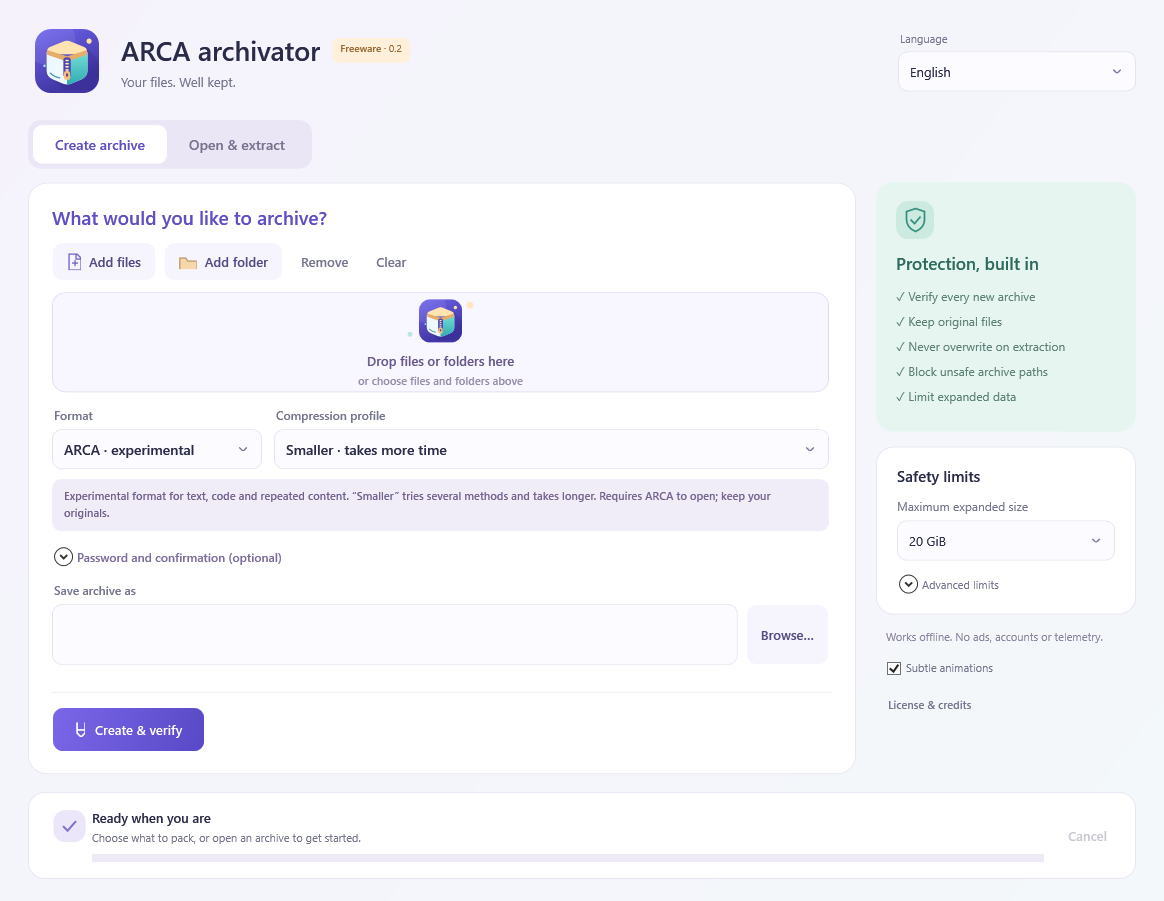
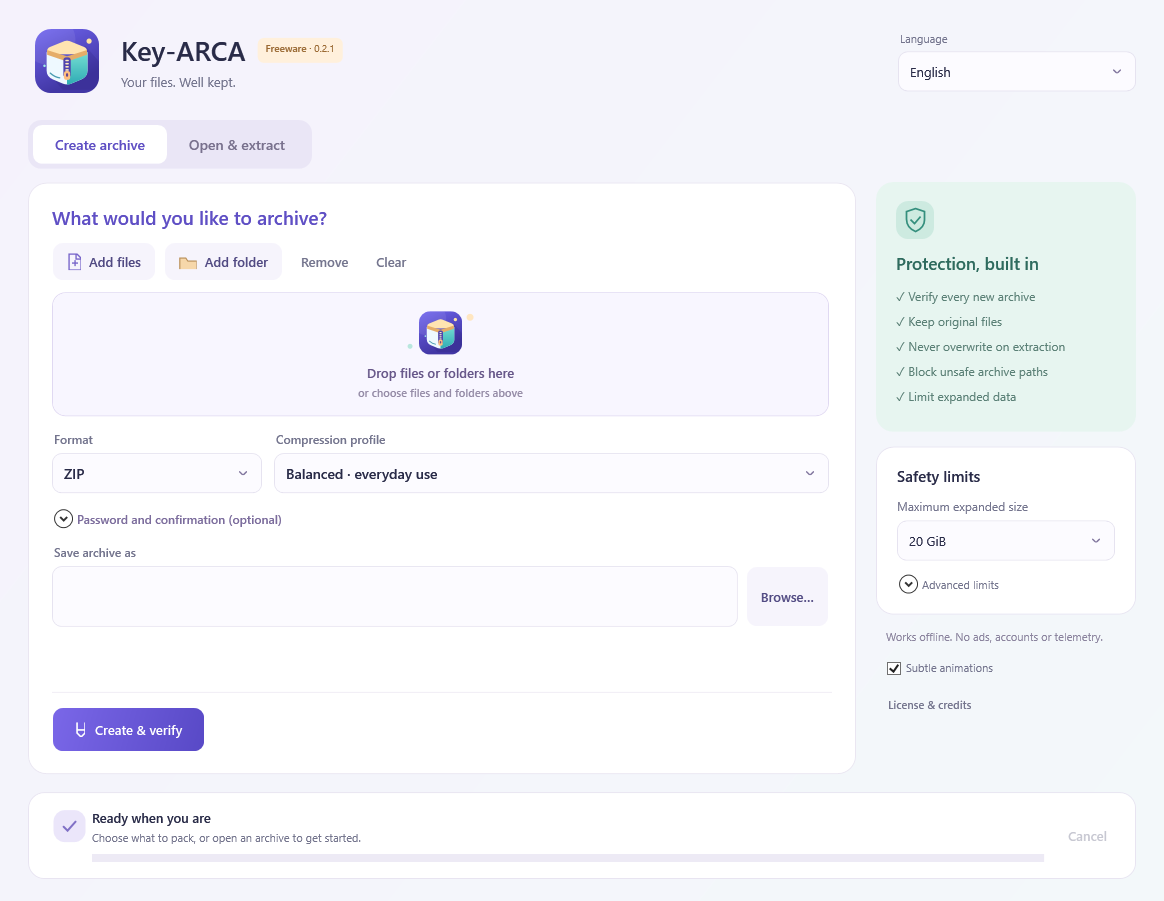
Rename application to Key-ARCA and document 0.2.1

diff --git a/RELEASE-NOTES.md b/RELEASE-NOTES.md
@@ -1,54 +1,37 @@
-# ARCA archivator 0.2.0 — experimental ARCA format
+# Key-ARCA 0.2.1 — new application name
 
-A Windows x64 ZIP/7z/ARCA archiver. Free for personal, educational and commercial use.
-The original application source remains proprietary. See
-`licenses/Freeware-License.txt` and `licenses/THIRD-PARTY-NOTICES.md` in the ZIP.
+The Windows archiver is now named **Key-ARCA**, with the new executable
+**Key-ARCA.exe**. The application title, branding text, assembly metadata,
+license/contact documents and portable package names use the new name.
+The existing archive-chest logo is retained.
 
-Contact: [FFFNewsNow@gmail.com](mailto:FFFNewsNow@gmail.com).
+The `.arca` extension and ARCA v1 container are unchanged. ZIP, 7z and ARCA
+archives from the previous version remain supported, including encrypted
+archives. This release changes the application identity, not the archive format.
 
-## Included
-
-- New independent `.arca` format with content-defined deduplication, grouping
-  by extension and adaptive Brotli/LZMA2/PPMd compression. ARCA is experimental,
-  currently requires this application, and does not always compress better than 7z.
-- Optional ARCA AES-256-GCM encryption hides contents and file names. SHA-256
-  checks protect files, chunks and segments; bounded metadata and strict layout
-  validation reject malformed input before extraction commits.
-- ARCA format notes and a complete measured comparison, including losses,
-  are included under `docs`. A synthetic duplicate-document case was 18.2%
-  smaller than the best tested solid 7z result; the text/code corpus was 0.4%
-  larger than 7z/PPMd. These are examples, not universal compression claims.
-- Create ZIP and 7z archives, preview contents, extract and check integrity.
-- Optional AES-256 encryption; encrypted 7z archives also hide file names.
-- English plus Romanian, Spanish, French, German, Portuguese, Italian,
-  Simplified Chinese, Japanese, Arabic and Hindi.
-- Original files retained, no extraction overwrites, validated paths and
-  duplicate-name checks, expanded-data limits and a resource-limited worker.
-- Offline operation with no accounts, advertisements or telemetry.
-- Portable self-contained .NET build; extract all files and run ArcaArchivator.exe.
-- Original archive-chest logo, embedded Windows/taskbar icon and desktop ICO.
-- Indigo, mint and apricot interface with rounded controls, clearer empty states,
-  optional password/advanced sections and switchable subtle animations that
-  respect Windows reduced-motion preferences.
-
-## Current limits
-
-This is an unsigned preview. Windows 10/11 x64 is the target platform. Existing
-solid 7z archives can be slow to extract. There is no repair/recovery feature,
-Explorer shell extension, split-volume support or in-place archive editing.
-The worker is resource-limited, not an OS security sandbox. The README describes
-the protection boundaries and conservative archive limits.
-
-ZIP AES passwords use printable ASCII characters with this engine; choose 7z or ARCA
-for Unicode passwords. Passwords for new archives need at least 12 characters.
-AES-encrypted ZIP requires a compatible reader.
+Release packaging now reads the version from the same build property as the
+application. Published versions remain frozen; each update gets a new package.
 
 ## Download and use
 
-Download `ARCA-archivator-0.2.0-win-x64.zip` from this release's Assets,
-extract all files and run **ArcaArchivator.exe**. Keep the extracted files
-together. This is a portable package, not an installer, and includes .NET.
-`SHA256SUMS.txt` contains the Windows ZIP's SHA-256 checksum.
+Download **Key-ARCA-0.2.1-win-x64.zip** from this release's Assets, extract all
+files and run **Key-ARCA.exe**. Keep the extracted files together. This is a
+portable Windows x64 package with .NET included, not an installer. Install an
+update into a separate folder and update any shortcuts. There is no automatic
+updater. `SHA256SUMS.txt` contains the Windows ZIP's SHA-256 checksum.
 
-The public repository contains distribution information and documentation.
-The original application source remains private.
+## Preview status
+
+This remains an unsigned freeware preview for Windows 10/11 x64. The ARCA format
+is experimental and does not consistently compress better than optimized 7z.
+The existing safety protections, eleven languages and compression methods are
+retained. There is no RAR/ISO extraction, split/join, damaged-archive repair or
+Explorer shell integration in this version. The README describes resource
+limits, encryption compatibility and the full feature set.
+
+The original application source remains proprietary and private. Required
+third-party notices and corresponding sources are included under `licenses`.
+The public GitHub repository contains distribution documentation and branding.
+The original application has not been obfuscated in this release.
+
+Contact: [FFFNewsNow@gmail.com](mailto:FFFNewsNow@gmail.com).

diff --git a/README.md b/README.md
@@ -1,20 +1,18 @@
-![ARCA archive chest logo](arca-logo.png)
-
-# ARCA archivator 0.2.0
+# Key-ARCA 0.2.1
 
 Freeware archiver for Windows 10/11 x64, with ZIP, 7z and experimental ARCA support.
 Free for personal, educational and commercial use. No ads, accounts or telemetry.
 
 ## Download
 
-[Download ARCA archivator 0.2.0 for Windows x64](https://github.com/Grimegod/ARCA-archivator/releases/download/v0.2.0/ARCA-archivator-0.2.0-win-x64.zip)
+[Download Key-ARCA 0.2.1 for Windows x64](https://github.com/Grimegod/Key-ARCA/releases/download/v0.2.1/Key-ARCA-0.2.1-win-x64.zip)
 
 This release is a **portable ZIP**, not an installer. It includes the required
 .NET runtime. You do not need Git, Visual Studio or a separate .NET installation.
 
-1. Download `ARCA-archivator-0.2.0-win-x64.zip` from the release's **Assets**.
+1. Download `Key-ARCA-0.2.1-win-x64.zip` from the release's **Assets**.
 2. Right-click the ZIP and choose **Extract All**.
-3. Open the extracted folder and run **ArcaArchivator.exe**.
+3. Open the extracted folder and run **Key-ARCA.exe**.
 4. Keep all extracted files together. Create a shortcut to the executable if desired.
 
 To remove the portable application, close it and delete its application folder.
@@ -40,13 +38,15 @@ use the application.
 
 ## Preview status and limitations
 
-Version 0.2.0 is an **unsigned preview**. Windows may show a publisher or
+Version 0.2.1 is an **unsigned preview**. Windows may show a publisher or
 reputation warning; the application is not represented as digitally signed.
 
-The ARCA format is experimental and currently requires ARCA archivator to open.
+The application is now named **Key-ARCA**. Existing `.arca` archives keep their
+extension and format and remain supported, including encrypted archives.
+The ARCA format is experimental and currently requires Key-ARCA to open.
 Keep originals or independent backups. It does **not** consistently compress
-better than optimized 7z. The [format description](ARCA-FORMAT.md) and
-[complete compression measurements](COMPRESSION-BENCHMARKS.md) explain its
+better than optimized 7z. The [format description](https://github.com/Grimegod/Key-ARCA/blob/main/ARCA-FORMAT.md) and
+[complete compression measurements](https://github.com/Grimegod/Key-ARCA/blob/main/COMPRESSION-BENCHMARKS.md) explain its
 behavior and limits, including cases where 7z is smaller.
 
 This version does not yet support RAR/ISO extraction, split/join volumes,
@@ -78,8 +78,6 @@ Open **License & credits** in the application to read the included notices.
 
 Questions, feedback and bug reports: **[FFFNewsNow@gmail.com](mailto:FFFNewsNow@gmail.com)**.
 
-You can also [report an issue](https://github.com/Grimegod/ARCA-archivator/issues).
+You can also [report an issue](https://github.com/Grimegod/Key-ARCA/issues).
 For a bug, include the application version, Windows version, archive format and
 steps to reproduce. Do not attach confidential files or passwords to public issues.
-
-![ARCA archivator interface](screenshot.png)

diff --git a/COMPRESSION-BENCHMARKS.md b/COMPRESSION-BENCHMARKS.md
@@ -78,7 +78,7 @@ No personal user files were used. Corpus contents and frozen original
 application source inputs are not included in the public release.
 
 The owner can reproduce a run with `tools/prepare_benchmark.py`, then build
-`tools/ArcaBench/ArcaBench.csproj` and execute it with the project root as
+`tools/KeyArcaBench/KeyArcaBench.csproj` and execute it with the project root as
 its argument. Re-preparing after source changes creates a different source
 fixture; compare its inventory before interpreting different results.
 

diff --git a/ARCA-FORMAT.md b/ARCA-FORMAT.md
@@ -1,6 +1,6 @@
 # ARCA v1 — experimental format specification
 
-ARCA archivator 0.2 introduces an independent `.arca` container for exact file
+Key-ARCA 0.2 introduces an independent `.arca` container for exact file
 contents and directory structure. The format is experimental. Version 1 readers
 reject other versions; an incompatible revision must use a new version number.
 ZIP and 7z remain available for interchange with other applications.
